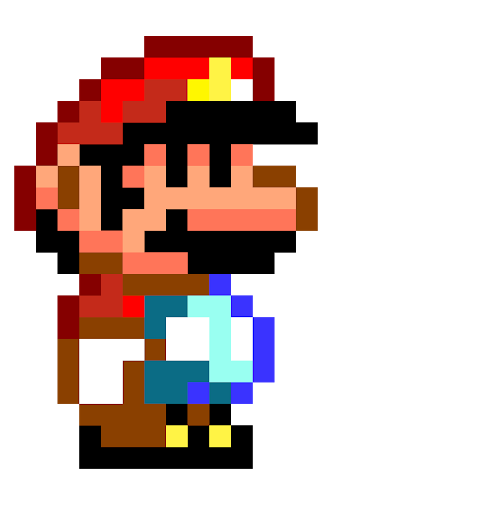
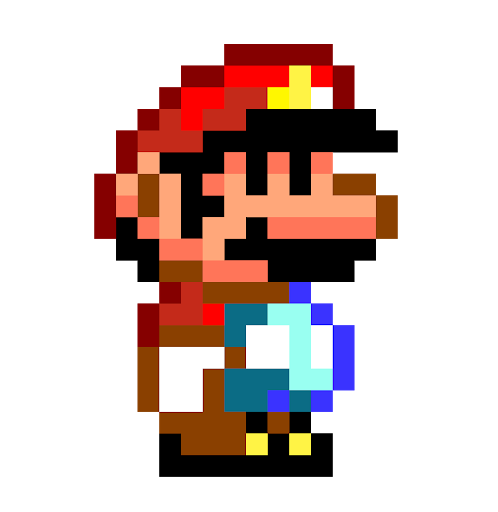
experimental implementation of barrier and cell snapping

diff --git a/DungeonCrawlers/src/main/java/World/World.java b/DungeonCrawlers/src/main/java/World/World.java
@@ -1,0 +1,87 @@
+package World;
+
+import java.awt.*;
+import java.io.BufferedReader;
+import java.io.FileReader;
+import java.io.IOException;
+
+public class World {
+    private int width, height;
+    private int spawnX, spawnY;
+    private int[][] tilesID;
+
+    public World(String path){
+        loadWorld(path);
+    }
+
+    public void tick(){}
+
+    public void render(Graphics g){
+        for(int j = 0; j<height; j++){
+            for(int i = 0; i<width; i++) {
+                getTile(i,j).render(g,i*Tile.TEXTUREWIDTH,j*Tile.TEXTUREHEIGHT);
+            }
+        }
+
+    }
+
+    public Tile getTile(int x, int y){
+        //error prevention
+        if(x<0 || y<0 || x>=width || y>=height){
+            return Tile.floorTile;
+        }
+
+        Tile t = Tile.tiles[tilesID[x][y]];
+        if(t == null){
+            return Tile.floorTile;
+        }
+        return t;
+    }
+
+
+
+    private void loadWorld(String path){
+        String file = loadFile(path);
+        String [] value = file.split("\\s+"); //split by space
+        width  = stringToInt(value[0]);
+        height = stringToInt(value[1]);
+        spawnX  = stringToInt(value[2]);
+        spawnY = stringToInt(value[3]);
+
+        tilesID = new int[width][height];
+        for(int j = 0; j<height; j++){
+            for(int i = 0; i<width; i++) {
+                tilesID[i][j] = stringToInt(value[(i+j*width)+4]);
+            }
+        }
+
+
+    }
+
+    //Helper methods for loading the world
+    public static String loadFile (String path){
+        StringBuilder builder = new StringBuilder();
+
+        try{
+            BufferedReader br = new BufferedReader(new FileReader(path));
+            String line;
+            while((line = br.readLine()) != null){
+                builder.append(line + "\n");
+            }
+            br.close();
+        }catch(IOException e){
+            e.printStackTrace();
+        }
+        return builder.toString();
+    }
+
+    public static int stringToInt (String number){
+        try{
+            return Integer.parseInt(number);
+        }catch (NumberFormatException e){
+            e.printStackTrace();
+            return 0;
+        }
+    }
+}
+

diff --git a/DungeonCrawlers/src/main/java/GameObjects/MainCharacter.java b/DungeonCrawlers/src/main/java/GameObjects/MainCharacter.java
@@ -2,6 +2,7 @@ package GameObjects;
 
 import state.Game;
 import graphics.*;
+import World.*;
 
 import java.awt.*;
 
@@ -9,33 +10,47 @@ public class MainCharacter extends GameObject {
     private Point spawn;
     protected int score;
     private Game game;
+    private World w;
+    private Tile nextTile;
+    private int tileSize = Tile.TEXTUREWIDTH;
 
     //constructor
-    public MainCharacter(Game game, Point location) {
+    public MainCharacter(Game game, World world, Point location) {
         super(location);
         score = 0;
         this.game = game;
+        this.w = world;
     }
 
     @Override
     public void update() {
+
+
         if(game.getKeyInput().up){
-            location.y -=3;
+            nextTile = w.getTile(location.x/tileSize , (location.y-tileSize)/tileSize);
+            if(nextTile.getID() != 1)
+                location.y -=tileSize;
         }
         if(game.getKeyInput().down){
-            location.y +=3;
+            nextTile = w.getTile(location.x/tileSize , (location.y + tileSize)/tileSize);
+            if(nextTile.getID() != 1)
+                location.y +=tileSize;
         }
-        if(game.getKeyInput().left){
-            location.x -=3;
+        if(game.getKeyInput().left ){
+            nextTile = w.getTile((location.x - tileSize)/tileSize, location.y/tileSize);
+            if(nextTile.getID() != 1)
+            location.x -=tileSize;
         }
         if(game.getKeyInput().right){
-            location.x +=3;
+            nextTile = w.getTile((location.x + tileSize)/tileSize, location.y/tileSize);
+            if(nextTile.getID() != 1)
+            location.x +=tileSize;
         }
     }
 
     @Override
     public void render(Graphics g) {
-        g.drawImage(Assets.player, location.x,location.y, 128,128,null);
+        g.drawImage(Assets.player, location.x,location.y, 100,100,null);
     }
 
     //setters
@@ -43,4 +58,6 @@ public class MainCharacter extends GameObject {
         spawn.x = x;
         spawn.y = y;
     }
+
+
 }

diff --git a/DungeonCrawlers/src/main/java/World/Tile.java b/DungeonCrawlers/src/main/java/World/Tile.java
@@ -1,0 +1,41 @@
+package World;
+
+import GameObjects.ExitCell;
+import com.sun.java.accessibility.util.TopLevelWindowListener;
+
+import java.awt.*;
+import java.awt.image.BufferedImage;
+
+public class Tile {
+    public static Tile[] tiles = new Tile[256]; //holds every instance of every tile
+    public static Tile floorTile = new FloorTile(0);
+    public static Tile barrierTile = new BarrierTile(1);
+    public static Tile exitTile = new ExitTile(2);
+
+
+
+
+    public static final int  TEXTUREWIDTH = 100, TEXTUREHEIGHT =100;
+    protected  BufferedImage texture;
+    protected final int id; // to identify what type of tile
+
+    public Tile(BufferedImage texture, int id){
+        this.texture = texture;
+        this.id = id;
+        tiles[id] = this;
+    }
+
+    public void render(Graphics g, int x, int y){
+
+        g.drawImage(texture, x,y, TEXTUREWIDTH, TEXTUREHEIGHT, null);
+    }
+
+    public boolean isWalkable(){
+        return true;
+    }
+
+    public int getID(){
+        return id;
+    }
+
+}

diff --git a/DungeonCrawlers/src/main/java/state/GameState.java b/DungeonCrawlers/src/main/java/state/GameState.java
@@ -1,23 +1,37 @@
 package state;
 
+import GameObjects.Enemy;
 import GameObjects.MainCharacter;
+import World.World;
 
 import java.awt.*;
 
 public class GameState extends State{
     private MainCharacter player;
+    private World world;
     private static Point spawnPoint = new Point(100,100);
+    private static Point spawnPoint2 = new Point(300,300);
+    private Enemy enemy;
 
     public GameState(Game game){
         super(game);
-        player = new MainCharacter(game,spawnPoint);
+
+        world = new World("src/main/resources/Level1.txt");
+        player = new MainCharacter(game,world,spawnPoint);
+        enemy = new Enemy(game, spawnPoint2, 100);
+
     }
 
     public void update() {
+
+        world.tick();
         player.update();
     }
 
     public void render(Graphics g) {
+        world.render(g);
         player.render(g);
+        enemy.render(g);
+
     }
 }

diff --git a/DungeonCrawlers/src/main/java/graphics/Assets.java b/DungeonCrawlers/src/main/java/graphics/Assets.java
@@ -12,10 +12,10 @@ public class Assets {
     //load in everything(material) in our game
     public static void initAssets(){
         player = ImageLoader.loadImage("/mainCharacter.png");
-        enemy = ImageLoader.loadImage("/enemy.png");
-        barrier = ImageLoader.loadImage("/barrier.png");
-        exit = ImageLoader.loadImage("/exit.png");
-        floor = ImageLoader.loadImage("/floor.png");
+        enemy = ImageLoader.loadImage("/enemy2.png");
+        barrier = ImageLoader.loadImage("/barrierTexture.png");
+        exit = ImageLoader.loadImage("/exitTexture.png");
+        floor = ImageLoader.loadImage("/floorTexture.png");
         specialReward = ImageLoader.loadImage("/specialReward.png");
         regularReward = ImageLoader.loadImage("/regularReward.png");
         trap = ImageLoader.loadImage("/trap.png");

diff --git a/DungeonCrawlers/src/main/java/GameObjects/Enemy.java b/DungeonCrawlers/src/main/java/GameObjects/Enemy.java
@@ -1,11 +1,14 @@
 package GameObjects;
 
+import graphics.Assets;
+import state.Game;
+
 import java.awt.*;
 
 public class Enemy extends GameObject{
     private int deductionValue;
 
-    public Enemy(Point location, ID id, int deductionValue) {
+    public Enemy(Game game, Point location, int deductionValue) {
         super(location);
         this.deductionValue = deductionValue;
 
@@ -26,6 +29,6 @@ public class Enemy extends GameObject{
 
     @Override
     public void render(Graphics g) {
-
+        g.drawImage(Assets.enemy, location.x,location.y, 100,100,null);
     }
 }

diff --git a/DungeonCrawlers/src/main/java/World/BarrierTile.java b/DungeonCrawlers/src/main/java/World/BarrierTile.java
@@ -1,0 +1,14 @@
+package World;
+
+import graphics.Assets;
+
+public class BarrierTile extends Tile {
+    public BarrierTile(int id) {
+        super(Assets.barrier, id);
+    }
+
+    @Override
+    public boolean isWalkable() {
+        return false;
+    }
+}

diff --git a/DungeonCrawlers/src/main/java/World/FloorTile.java b/DungeonCrawlers/src/main/java/World/FloorTile.java
@@ -1,0 +1,9 @@
+package World;
+
+import graphics.Assets;
+
+public class FloorTile extends Tile{
+    public FloorTile(int id) {
+        super(Assets.floor, id);
+    }
+}

diff --git a/DungeonCrawlers/src/main/java/World/ExitTile.java b/DungeonCrawlers/src/main/java/World/ExitTile.java
@@ -1,0 +1,9 @@
+package World;
+
+import graphics.Assets;
+
+public class ExitTile extends Tile{
+    public ExitTile(int id) {
+        super(Assets.exit, id);
+    }
+}
